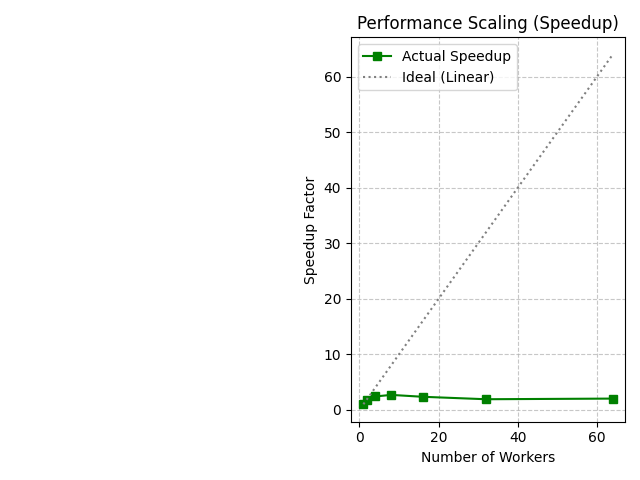
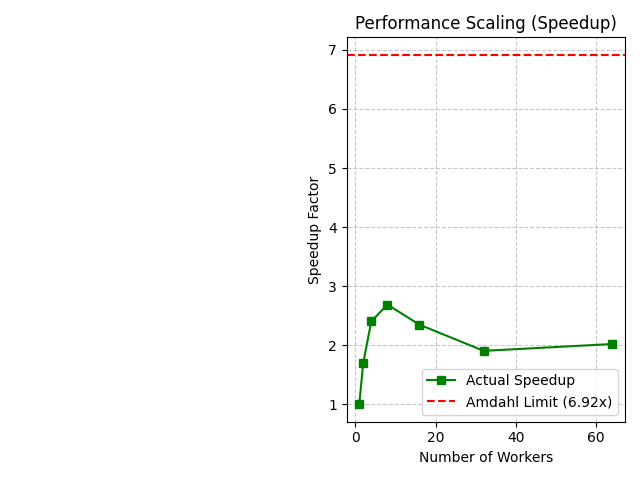
yo

diff --git a/create_plots.py b/create_plots.py
@@ -4,12 +4,23 @@ import pandas as pd
 
 df = pd.read_csv("results_parallel_huge.csv")
 
+df["sequential_time"] = df["total_time"] - df["parallel_time"]
+df["parallel_portion"] = df["parallel_time"] - df["total_time"]
+df["sequential_portion"] = df["sequential_time"] - df["total_time"]
+
 t_1 = df.loc[df["workers"] == 1, "total_time"].values[0]
 df["speedup"] = t_1 / df["total_time"]
 
+s_time = df.loc[df["workers"] == 1, "sequential_time"].values[0]
+s_portion = s_time / t_1
+
+max_theo_speedup = 1 / s_portion
+
 plt.subplot(1, 2, 2)
 plt.plot(df['workers'], df['speedup'], marker='s', color='green', label='Actual Speedup')
-plt.plot(df['workers'], df['workers'], color='gray', linestyle=':', label='Ideal (Linear)')
+plt.axhline(y=max_theo_speedup, color='red', linestyle='--', 
+            label=f'Amdahl Limit ({max_theo_speedup:.2f}x)')
+
 plt.xlabel('Number of Workers')
 plt.ylabel('Speedup Factor')
 plt.title('Performance Scaling (Speedup)')
